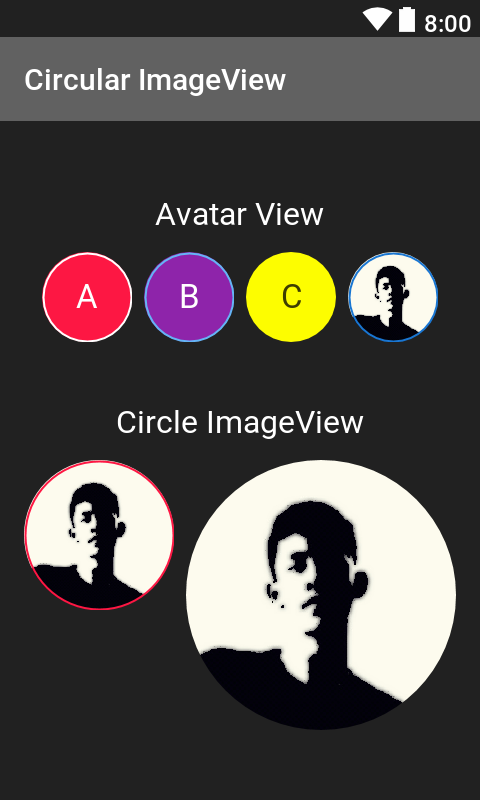
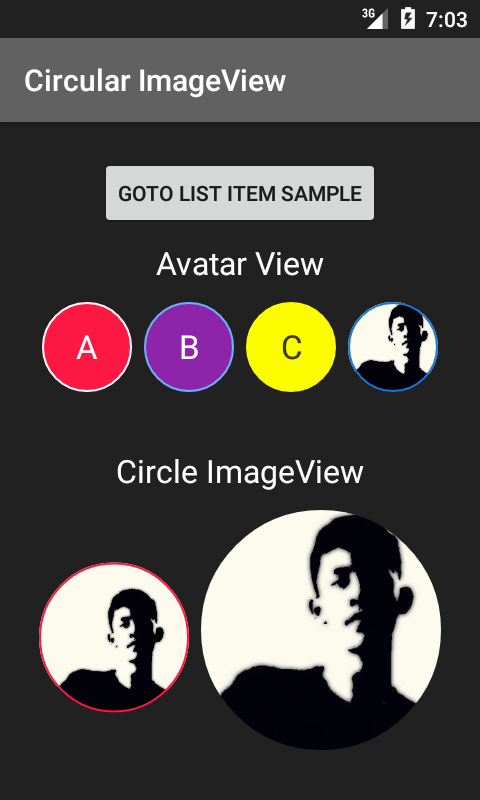
Update README.md file for v1.1

diff --git a/README.md b/README.md
@@ -26,60 +26,109 @@ allprojects {
 
 ~~~xml
 dependencies {
-    compile 'com.github.abdularis:CircularImageView:v1.0'
+    compile 'com.github.abdularis:CircularImageView:v1.1'
 }
 ~~~
 
 ## Usage
 Check also the sample app
 
-- Creating circle image view
+- **Creating circle image view**
 
-![](screenshots/fig2.png)
+![](screenshots/fig2.gif)
 
 ~~~xml
 <com.github.abdularis.civ.CircleImageView
-            android:layout_width="100dp"
-            android:layout_height="100dp"
-            android:layout_marginRight="8dp"
-            android:src="@drawable/figure"
-            app:strokeColor="@color/colorAccent"
-            app:strokeWidth="2px"/>
+    android:layout_width="100dp"
+    android:layout_height="170dp"
+    android:src="@drawable/figure"
+    app:highlightColor="#80fb1743"
+    app:strokeColor="@color/colorAccent"
+    app:strokeWidth="2px"/>
 
 <com.github.abdularis.civ.CircleImageView
-            android:layout_width="180dp"
-            android:layout_height="180dp"
-            android:src="@drawable/figure"
-            app:strokeColor="@color/colorAccent"/>
+    android:layout_width="160dp"
+    android:layout_height="160dp"
+    android:src="@drawable/figure2"
+    android:onClick="onCircleImageClick"
+    app:strokeColor="@color/colorAccent"/>
 ~~~
 
-- Creating avatar
+- **Creating avatar**
 
-![](screenshots/fig1.png)
+![](screenshots/fig1.gif)
 
 You can choose either for avatar_state, IMAGE or INITIAL to show the first letter (default is INITIAL)
 
 ~~~xml
 <com.github.abdularis.civ.AvatarImageView
-            android:layout_width="60dp"
-            android:layout_height="60dp"
-            android:layout_marginLeft="8dp"
-            android:src="@drawable/figure"
-            app:avatar_state="IMAGE"
-            app:avatar_backgroundColor="#1976D2"
-            app:avatar_text="B"
-            app:avatar_textSize="22sp"
-            app:strokeColor="#1976D2"
-            app:strokeWidth="1dp"/>
+    android:layout_width="60dp"
+    android:layout_height="60dp"
+    android:src="@drawable/figure"
+    android:onClick="onAClick"
+    app:strokeWidth="1dp"
+    app:strokeColor="@android:color/white"
+    app:avatar_backgroundColor="@color/colorAccent"
+    app:avatar_text="A"
+    app:avatar_textSize="22sp"/>
+
+<com.github.abdularis.civ.AvatarImageView
+    android:layout_width="60dp"
+    android:layout_height="60dp"
+    app:highlightEnable="false"
+    app:strokeColor="#64B5F6"
+    app:strokeWidth="1dp"
+    app:avatar_backgroundColor="#8E24AA"
+    app:avatar_text="B"
+    app:avatar_textSize="22sp"/>
+
+<com.github.abdularis.civ.AvatarImageView
+    android:layout_width="60dp"
+    android:layout_height="60dp"
+    app:avatar_backgroundColor="#FDFD00"
+    app:avatar_text="C"
+    app:avatar_textSize="22sp"
+    app:avatar_textColor="#3d3d01"/>
+
+<com.github.abdularis.civ.AvatarImageView
+    android:layout_width="60dp"
+    android:layout_height="60dp"
+    android:src="@drawable/figure2"
+    app:strokeColor="#1976D2"
+    app:strokeWidth="1dp"
+    app:avatar_state="IMAGE"
+    app:avatar_backgroundColor="#1976D2"
+    app:avatar_text="B"
+    app:avatar_textSize="22sp"/>
 ~~~
 
+Java on view click listener
+
+~~~java
+// on click listener for avatar view 'A'
+public void onAClick(View view) {
+    AvatarImageView a = (AvatarImageView) view;
+    if (a.getState() == AvatarImageView.SHOW_INITIAL) {
+        a.setState(AvatarImageView.SHOW_IMAGE);
+    } else {
+        a.setState(AvatarImageView.SHOW_INITIAL);
+    }
+}
+~~~
+
+
 ## XML Attributes
+
+These are all attributes that you can use to customize the appearance of CircleImageView and AvatarImageView
+
 ~~~xml
 <?xml version="1.0" encoding="utf-8"?>
 <resources>
     <declare-styleable name="CircleImageView">
         <attr name="strokeColor" format="color"/>
         <attr name="strokeWidth" format="dimension"/>
+        <attr name="highlightEnable" format="boolean"/>
+        <attr name="highlightColor" format="color"/>
     </declare-styleable>
 
     <declare-styleable name="AvatarImageView">
